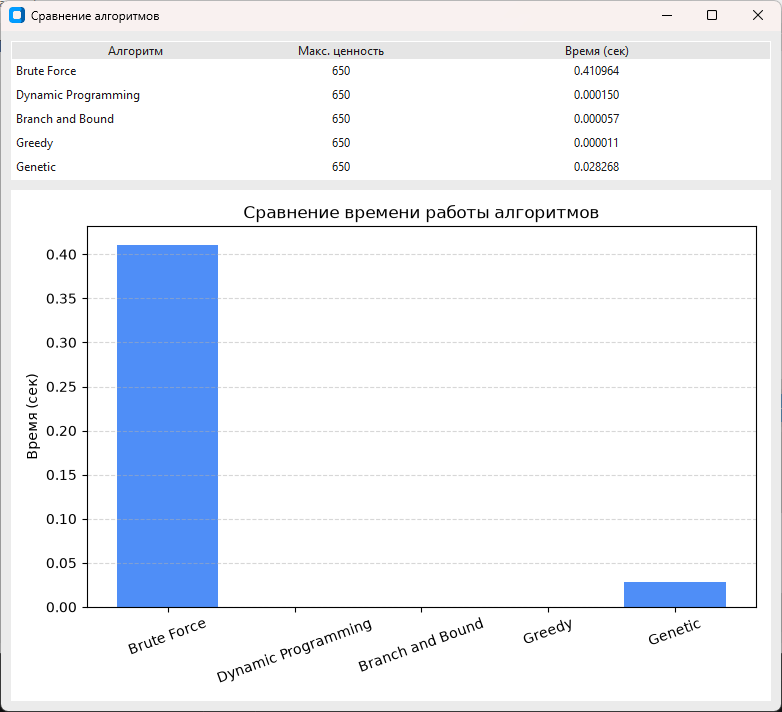
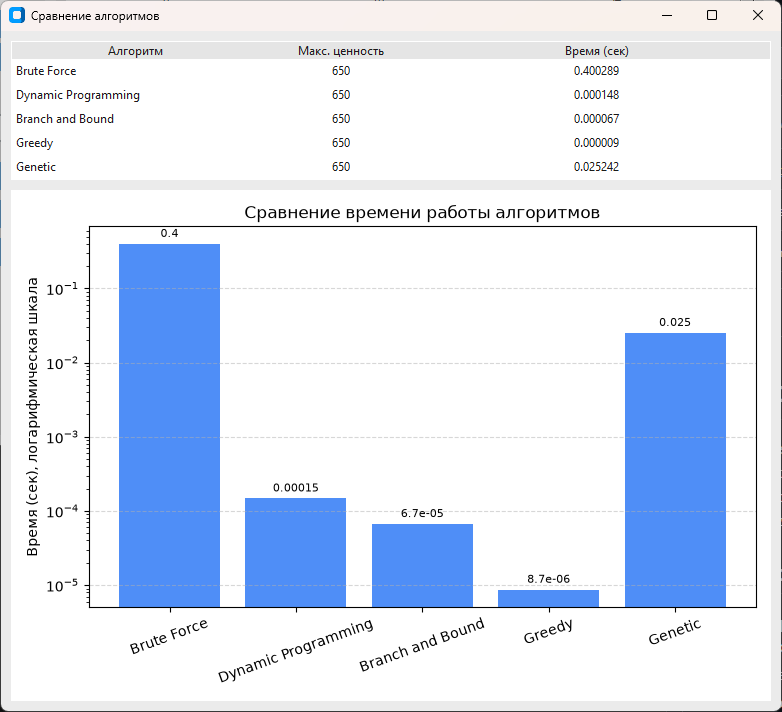
Use logarithmic time axis on all plots
Algorithm running times differ by orders of magnitude, so on a linear axis
the fast methods collapsed onto zero. Time axes are now logarithmic (zero
timings are clipped to the timer resolution), bars on the comparison chart
are labelled, README screenshots are regenerated and a test covers the
log scale.

diff --git a/knapsack_app/utils/plots.py b/knapsack_app/utils/plots.py
@@ -5,27 +5,40 @@ from matplotlib.figure import Figure
 
 from .performance import AlgorithmResult
 
+# Время алгоритмов отличается на порядки (жадный — микросекунды, перебор —
+# секунды), поэтому ось времени логарифмическая. Нулевые замеры на ней
+# не отображаются, их поднимаем до разрешения таймера.
+MIN_TIME = 1e-7
+Y_LABEL = "Время (сек), логарифмическая шкала"
+
+
+def _positive(times: List[float]) -> List[float]:
+    return [max(t, MIN_TIME) for t in times]
+
 
 def plot_algorithm_comparison(results: List[AlgorithmResult]) -> Figure:
     """
-    Столбиковая диаграмма сравнения времени выполнения алгоритмов.
+    Столбиковая диаграмма сравнения времени выполнения алгоритмов
+    (логарифмическая шкала).
 
     Возвращает Figure (без pyplot), которую можно встроить в окно Tk или
     сохранить в файл. Пропущенные алгоритмы на диаграмму не попадают.
     """
     done = [r for r in results if not r.skipped]
     names = [r.name for r in done]
-    times = [r.elapsed for r in done]
+    times = _positive([r.elapsed for r in done])
 
     fig = Figure(figsize=(8, 5), tight_layout=True)
     ax = fig.subplots()
     x = np.arange(len(names))
-    ax.bar(x, times, color="#4F8EF7")
+    bars = ax.bar(x, times, color="#4F8EF7")
+    ax.set_yscale("log")
+    ax.bar_label(bars, labels=[f"{t:.2g}" for t in times], padding=3, fontsize=8)
     ax.set_xticks(x)
     ax.set_xticklabels(names, rotation=20)
-    ax.set_ylabel("Время (сек)")
+    ax.set_ylabel(Y_LABEL)
     ax.set_title("Сравнение времени работы алгоритмов")
-    ax.grid(axis="y", linestyle="--", alpha=0.5)
+    ax.grid(axis="y", which="major", linestyle="--", alpha=0.5)
     return fig
 
 
@@ -38,11 +51,12 @@ def _line_plot(
     ax = fig.subplots()
     for name, (xs, ys) in data.items():
         if xs:
-            ax.plot(xs, ys, marker="o", label=name)
+            ax.plot(xs, _positive(ys), marker="o", label=name)
+    ax.set_yscale("log")
     ax.set_xlabel(xlabel)
-    ax.set_ylabel("Время (сек)")
+    ax.set_ylabel(Y_LABEL)
     ax.set_title(title)
-    ax.grid(True, linestyle="--", alpha=0.5)
+    ax.grid(True, which="major", linestyle="--", alpha=0.5)
     if ax.get_legend_handles_labels()[0]:
         ax.legend()
     return fig
@@ -52,7 +66,7 @@ def plot_time_vs_items(
     data: Dict[str, Tuple[List[int], List[float]]],
 ) -> Figure:
     """
-    Линейный график зависимости времени работы от числа предметов.
+    График зависимости времени работы от числа предметов (ось времени логарифмическая).
     """
     return _line_plot(
         data,
@@ -65,7 +79,7 @@ def plot_time_vs_capacity(
     data: Dict[str, Tuple[List[int], List[float]]],
 ) -> Figure:
     """
-    Линейный график зависимости времени работы от вместимости рюкзака.
+    График зависимости времени работы от вместимости рюкзака (ось времени логарифмическая).
     """
     return _line_plot(
         data,

diff --git a/knapsack_app/tests/test_performance.py b/knapsack_app/tests/test_performance.py
@@ -4,6 +4,7 @@ from algorithms.brute_force import solve_knapsack_bruteforce
 from algorithms.greedy import solve_knapsack_greedy
 from utils.data_generator import generate_items, items_to_lists
 from utils.performance import (
+    AlgorithmResult,
     benchmark_vs_capacity,
     benchmark_vs_items,
     compare_algorithms,
@@ -65,6 +66,25 @@ def test_default_ranges_are_never_empty():
         assert len(capacity_range) >= 3
         assert capacity_range == sorted(set(capacity_range))
         assert min(capacity_range) >= 1
+
+
+def test_time_axes_are_logarithmic_and_tolerate_zero_times():
+    zero_result = AlgorithmResult(
+        name="Greedy", max_value=1, selected_items=[0], elapsed=0.0
+    )
+    slow_result = AlgorithmResult(
+        name="Brute Force", max_value=1, selected_items=[0], elapsed=0.5
+    )
+    figures = [
+        plot_algorithm_comparison([zero_result, slow_result]),
+        plot_time_vs_items({"Greedy": ([1, 2], [0.0, 0.0])}),
+        plot_time_vs_capacity({"Greedy": ([10, 20], [0.0, 1e-5])}),
+    ]
+
+    for fig in figures:
+        ax = fig.axes[0]
+        assert ax.get_yscale() == "log"
+        assert "логарифм" in ax.get_ylabel()
 
 
 def test_plots_build_figures_without_pyplot():

diff --git a/readme.md b/readme.md
@@ -35,7 +35,8 @@
 - **Сравнение алгоритмов**:
   - таблица с максимальной ценностью и временем работы каждого алгоритма;
   - диаграмма времени работы;
-  - графики зависимости времени работы от числа предметов и от вместимости.
+  - графики зависимости времени работы от числа предметов и от вместимости;
+  - ось времени логарифмическая: алгоритмы отличаются на порядки, и на линейной шкале быстрые методы сливались бы с нулём.
 - Вычисления выполняются в фоновом потоке, окно не зависает.
 
 ## Требования
